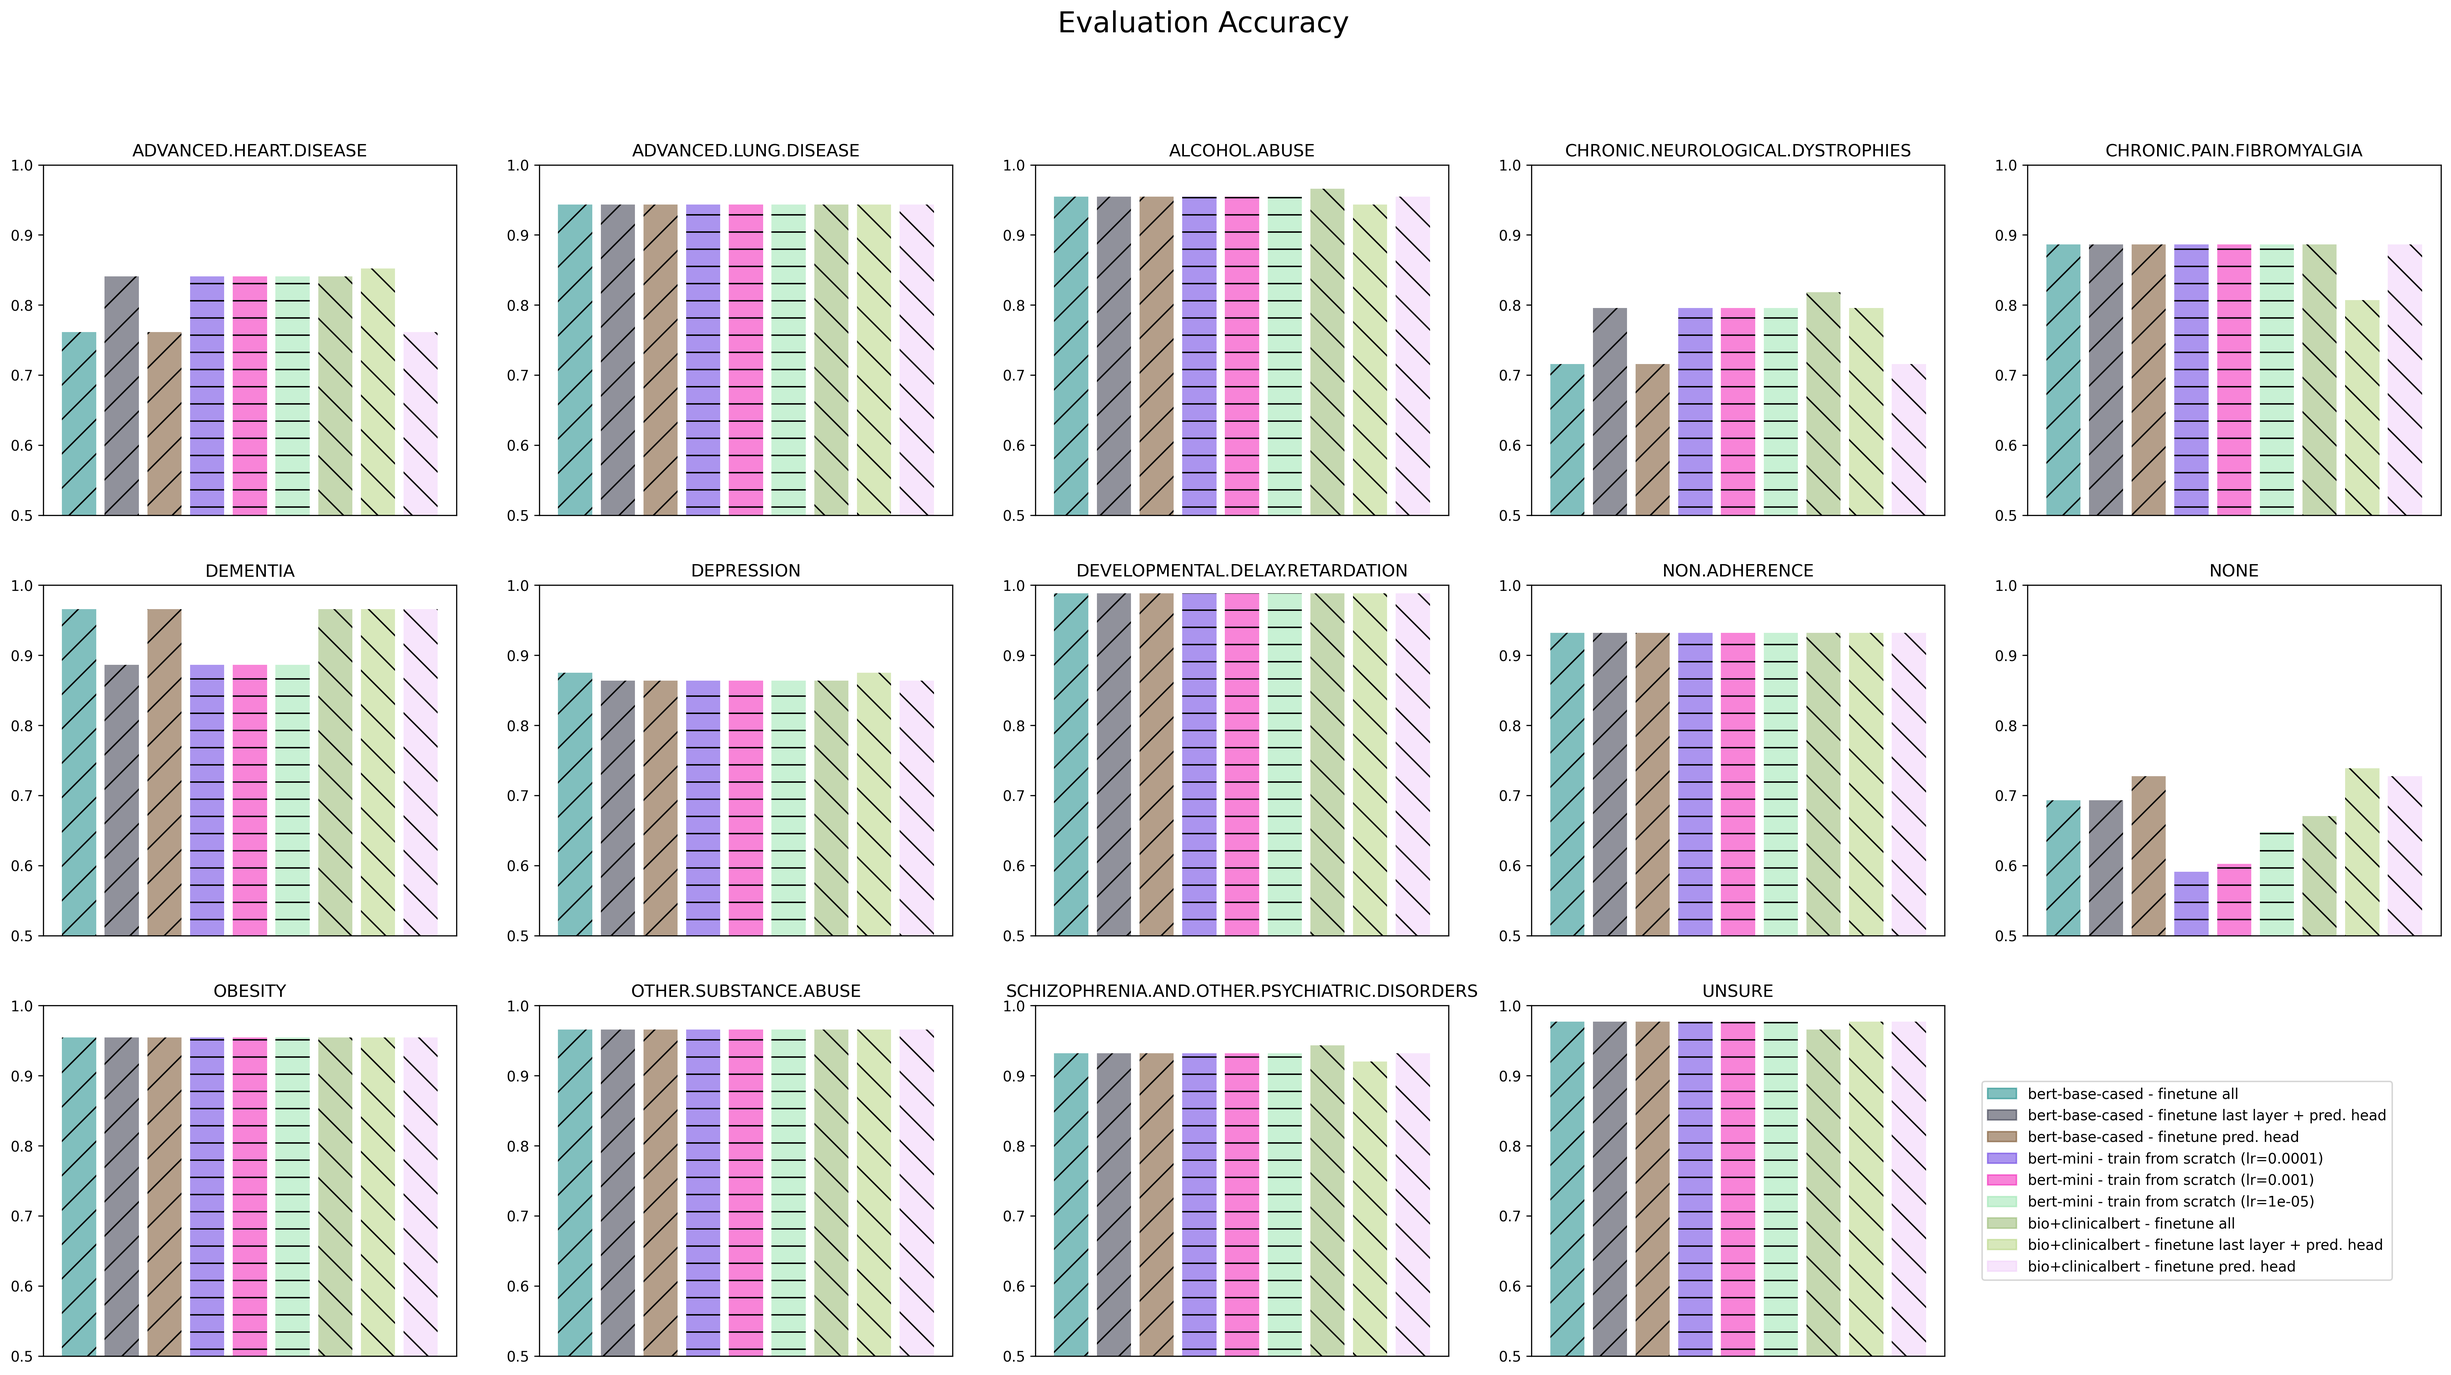
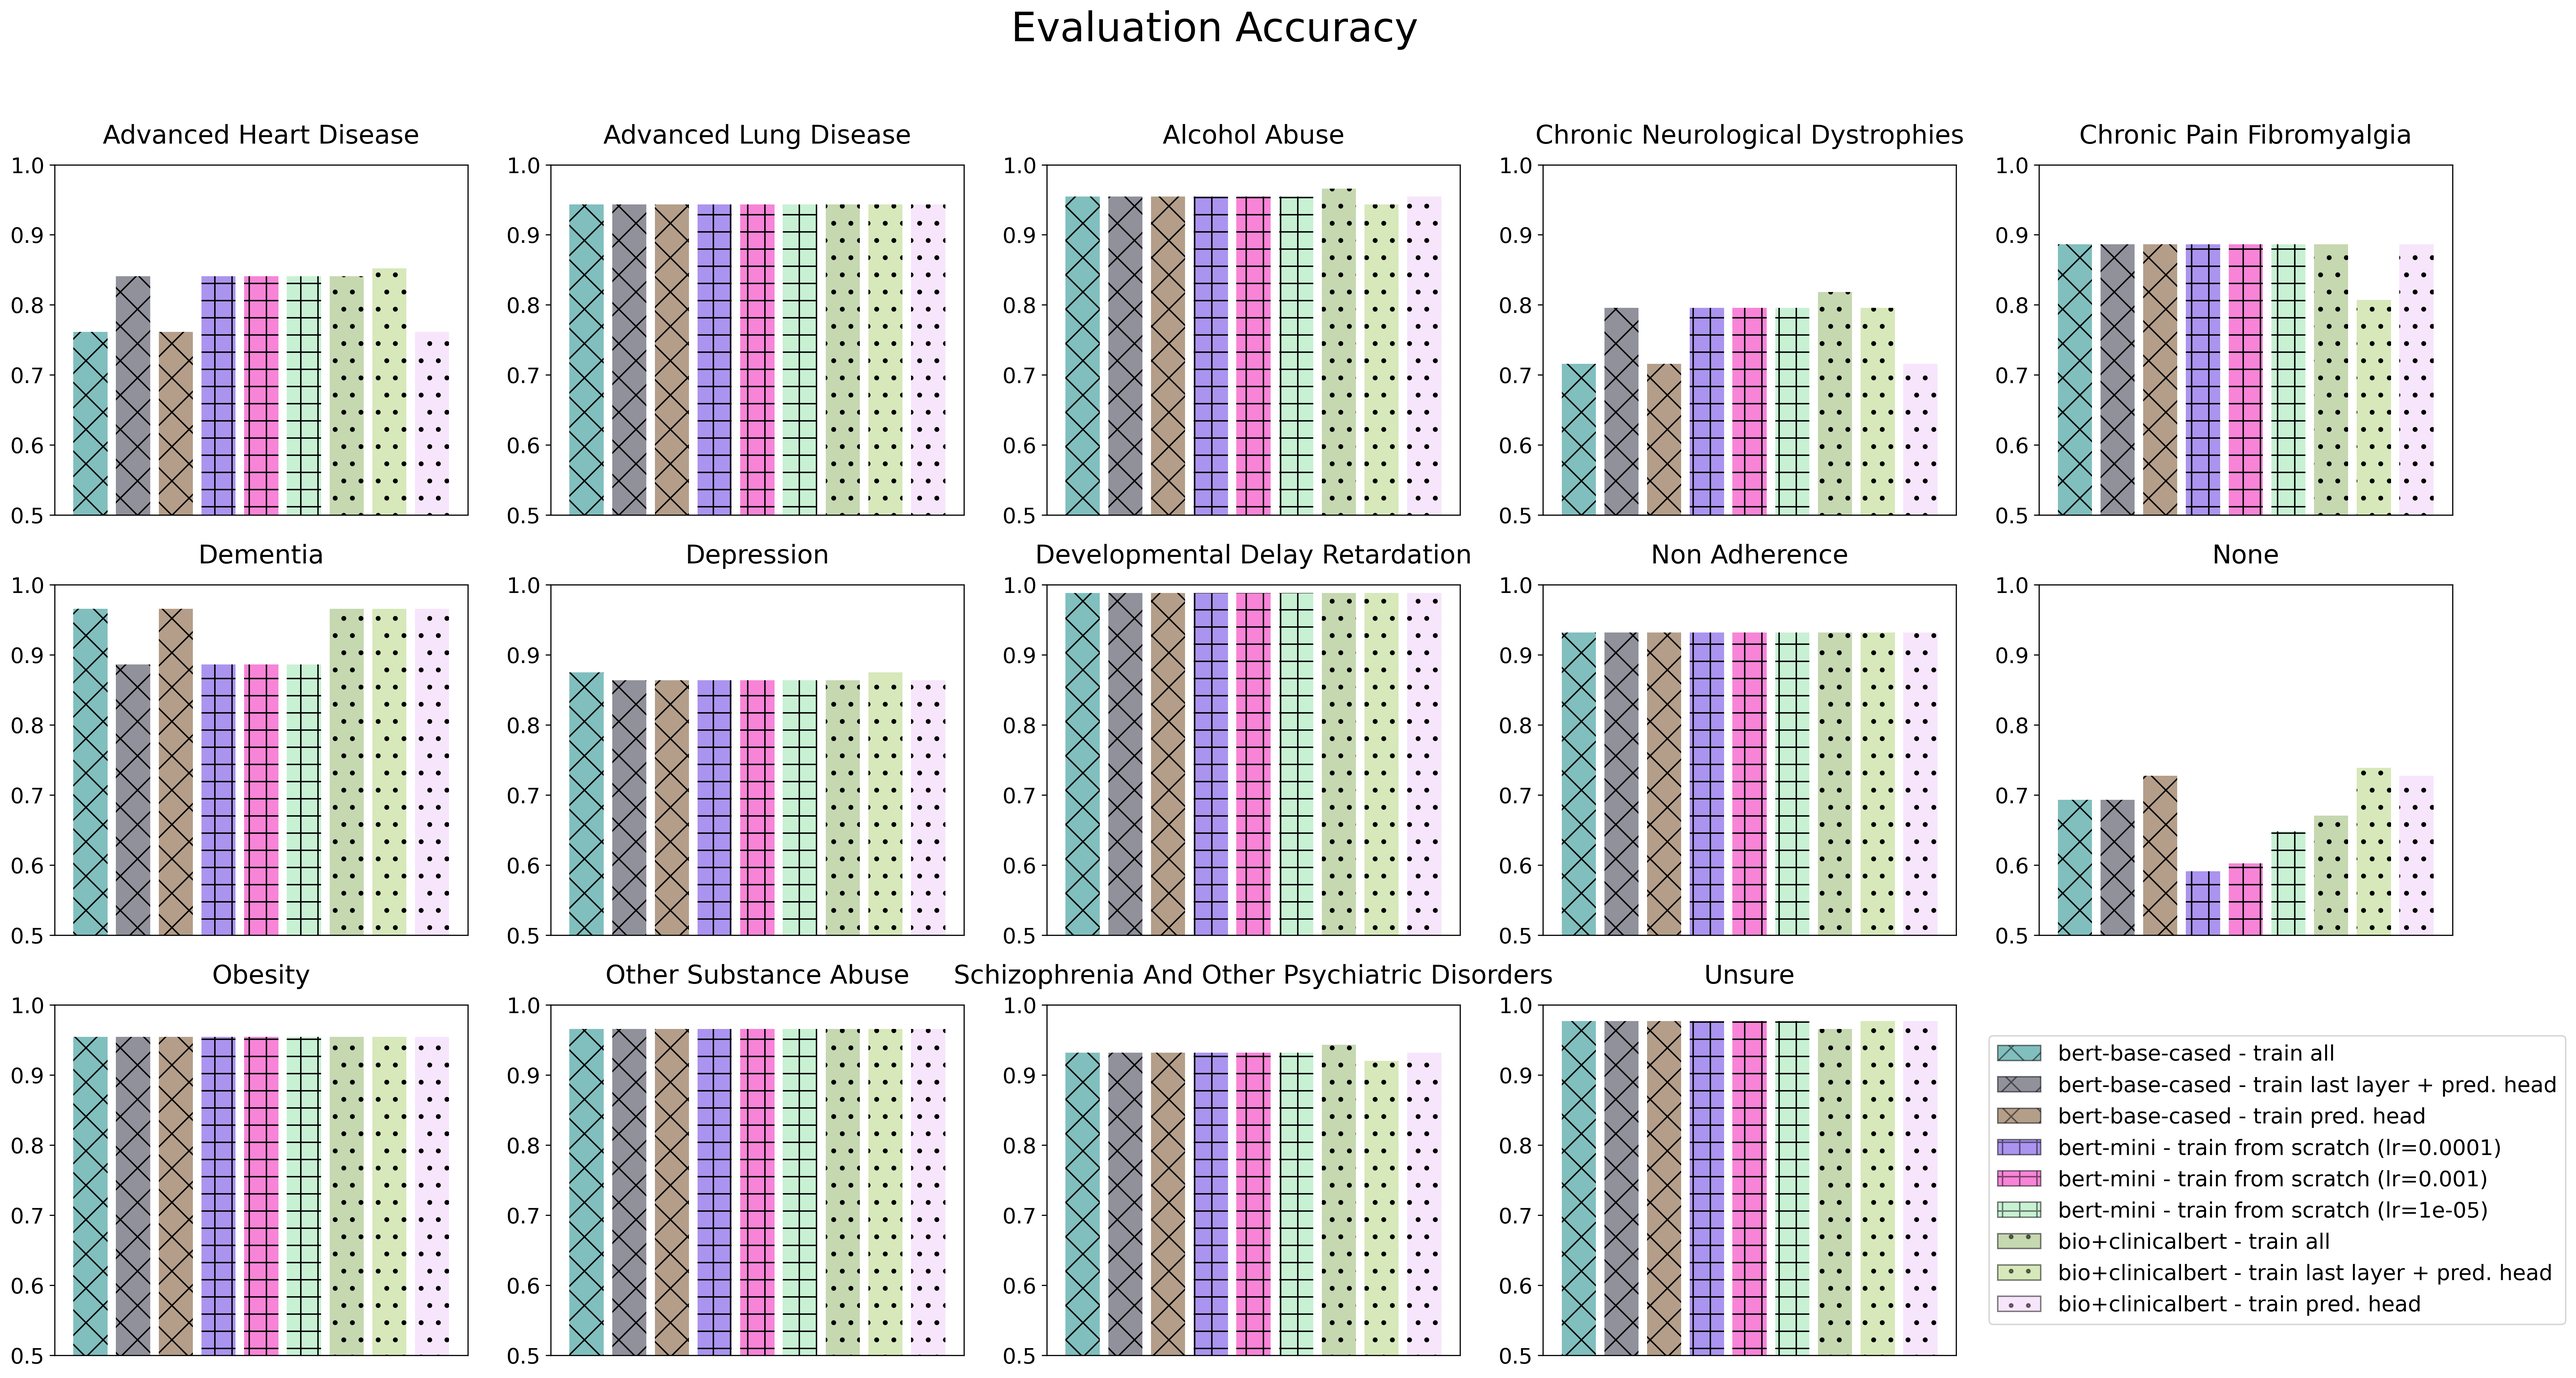
Updated figures.

diff --git a/plot.py b/plot.py
@@ -1,3 +1,4 @@
+from collections import defaultdict
 import glob
 import json
 import os.path
@@ -18,14 +19,10 @@ name_mapping = {
     "f1_weighted": "F1 Weighted",
     "f1_macro": "F1 Macro",
     "f1_micro": "F1 Micro",
-    "all": "finetune all",
-    "classifier": "finetune pred. head",
-    "lastbert": "finetune last layer + pred. head",
+    "all": "train all",
+    "classifier": "train pred. head",
+    "lastbert": "train last layer + pred. head",
 }
-# font = {
-#     'weight': 'bold',
-# }
-# matplotlib.rc('font', **font)
 
 
 def parse_attrs(fname: str):
@@ -40,6 +37,10 @@ def parse_attrs(fname: str):
 
 
 def plot_metric_over_epochs(results, metric, fig_dir, line_types):
+    font = {
+        'size': 14,
+    }
+    matplotlib.rc('font', **font)
     fig, ax = plt.subplots()
     plt.title(name_mapping[metric])
     models = sorted(list(results.keys()))
@@ -48,7 +49,8 @@ def plot_metric_over_epochs(results, metric, fig_dir, line_types):
         values = metric_values[metric]
         lt = line_types[id_plt.split(" - ")[0]]
         ax.plot(range(len(values)), values, label=id_plt, ls=lt)
-    ax.legend(bbox_to_anchor=(1.85, 0.5), loc='right')
+        # print(id_plt, f'{values[-1]:.03f}')
+    ax.legend(bbox_to_anchor=(2.2, 0.5), loc='right')
     plt.xlabel('Epoch')
     plt.savefig(os.path.join(fig_dir, f'{metric}.png'), dpi=300, bbox_inches='tight')
 
@@ -58,8 +60,12 @@ def plot_metric_over_phenotypes(results, is_train, metric, fig_dir, hatch_types)
 
     Args:
         metric: Can be one of [f1_macro, f1_micro, f1_weighted, accs]."""
+    font = {
+        'size': 15,
+    }
+    matplotlib.rc('font', **font)
     fig = plt.figure(figsize=(30, 15))
-    fig.suptitle(f'{"Train" if is_train else "Evaluation"} {name_mapping[metric]}', fontsize=20)
+    fig.suptitle(f'{"Train" if is_train else "Evaluation"} {name_mapping[metric]}', fontsize=28)
     frame1 = plt.gca()
     frame1.axes.xaxis.set_visible(False)
     frame1.axes.yaxis.set_visible(False)
@@ -68,21 +74,26 @@ def plot_metric_over_phenotypes(results, is_train, metric, fig_dir, hatch_types)
     np.random.seed(9)
     colors = np.random.rand(len(models), 3).tolist()
     hatches = [hatch_types[model.split(' - ')[0]] for model in models]
+    # accs = defaultdict(float)
     for i, p in enumerate(data_util.PHENOTYPE_NAMES):
         full_metric_name = f'{"tr" if is_train else "eval"}_{p}_{metric}'
         ax = fig.add_subplot(3, 5, i + 1)
         ax.bar(
             models, [results[m][full_metric_name][-1] for m in models],
             color=colors, alpha=0.5, hatch=hatches)
-        ax.title.set_text(p)
-        # if i < 10:
+        ax.set_title(" ".join(p.split('.')).title(), pad=15)
         x_axis = ax.axes.get_xaxis()
         x_axis.set_visible(False)
-        # else:
-        #     plt.xticks(rotation=30, ha='right')
         ax.set_ylim(0.5, 1)
-    handles = [plt.Rectangle((0,0),1,1, color=colors[i], alpha=0.5) for i in range(len(colors))]
-    plt.legend(handles, models, bbox_to_anchor=(2.1, 0.5), loc='right')
+    #     for m in models:
+    #         accs[m] += results[m][full_metric_name][-1]
+    # for k in accs:
+    #     accs[k] = accs[k] / len(data_util.PHENOTYPE_NAMES)
+    # for k, v in accs.items():
+    #     print(k, f'{v:.03f}')
+    handles = [plt.Rectangle(
+        (0,0),1,1, facecolor=colors[i], edgecolor='black', alpha=0.5, hatch=hatches[i]) for i in range(len(colors))]
+    plt.legend(handles, models, bbox_to_anchor=(2.5, 0.5), loc='right')
     plt.savefig(os.path.join(fig_dir, f'{"tr" if is_train else "eval"}_{metric}_by_phenotypes.png'), dpi=300, bbox_inches='tight')
 
 
@@ -95,9 +106,9 @@ if __name__ == "__main__":
         "bio+clinicalbert": "--",
     }
     hatch_types = {
-        "bert-mini": "-",
-        "bert-base-cased": "/",
-        "bio+clinicalbert": "\\",
+        "bert-mini": "+",
+        "bert-base-cased": "x",
+        "bio+clinicalbert": ".",
     }
     results = {}
     for f in glob.glob(os.path.join(RESULT_DIR, "*/*.json")):
@@ -109,10 +120,10 @@ if __name__ == "__main__":
         result_json = json.load(open(f))
         results.update({id_plt: result_json})
 
-    plot_metric_over_epochs(results, "tr_loss", FIG_DIR, line_types)
-    plot_metric_over_epochs(results, "eval_loss", FIG_DIR, line_types)
-    plot_metric_over_epochs(results, "tr_avg_f1s_weighted", FIG_DIR, line_types)
-    plot_metric_over_epochs(results, "eval_avg_f1s_weighted", FIG_DIR, line_types)
+    # plot_metric_over_epochs(results, "tr_loss", FIG_DIR, line_types)
+    # plot_metric_over_epochs(results, "eval_loss", FIG_DIR, line_types)
+    # plot_metric_over_epochs(results, "tr_avg_f1s_weighted", FIG_DIR, line_types)
+    # plot_metric_over_epochs(results, "eval_avg_f1s_weighted", FIG_DIR, line_types)
 
     plot_metric_over_phenotypes(results, is_train=False, metric="accs", fig_dir=FIG_DIR, hatch_types=hatch_types)
     plot_metric_over_phenotypes(results, is_train=False, metric="f1_weighted", fig_dir=FIG_DIR, hatch_types=hatch_types)
